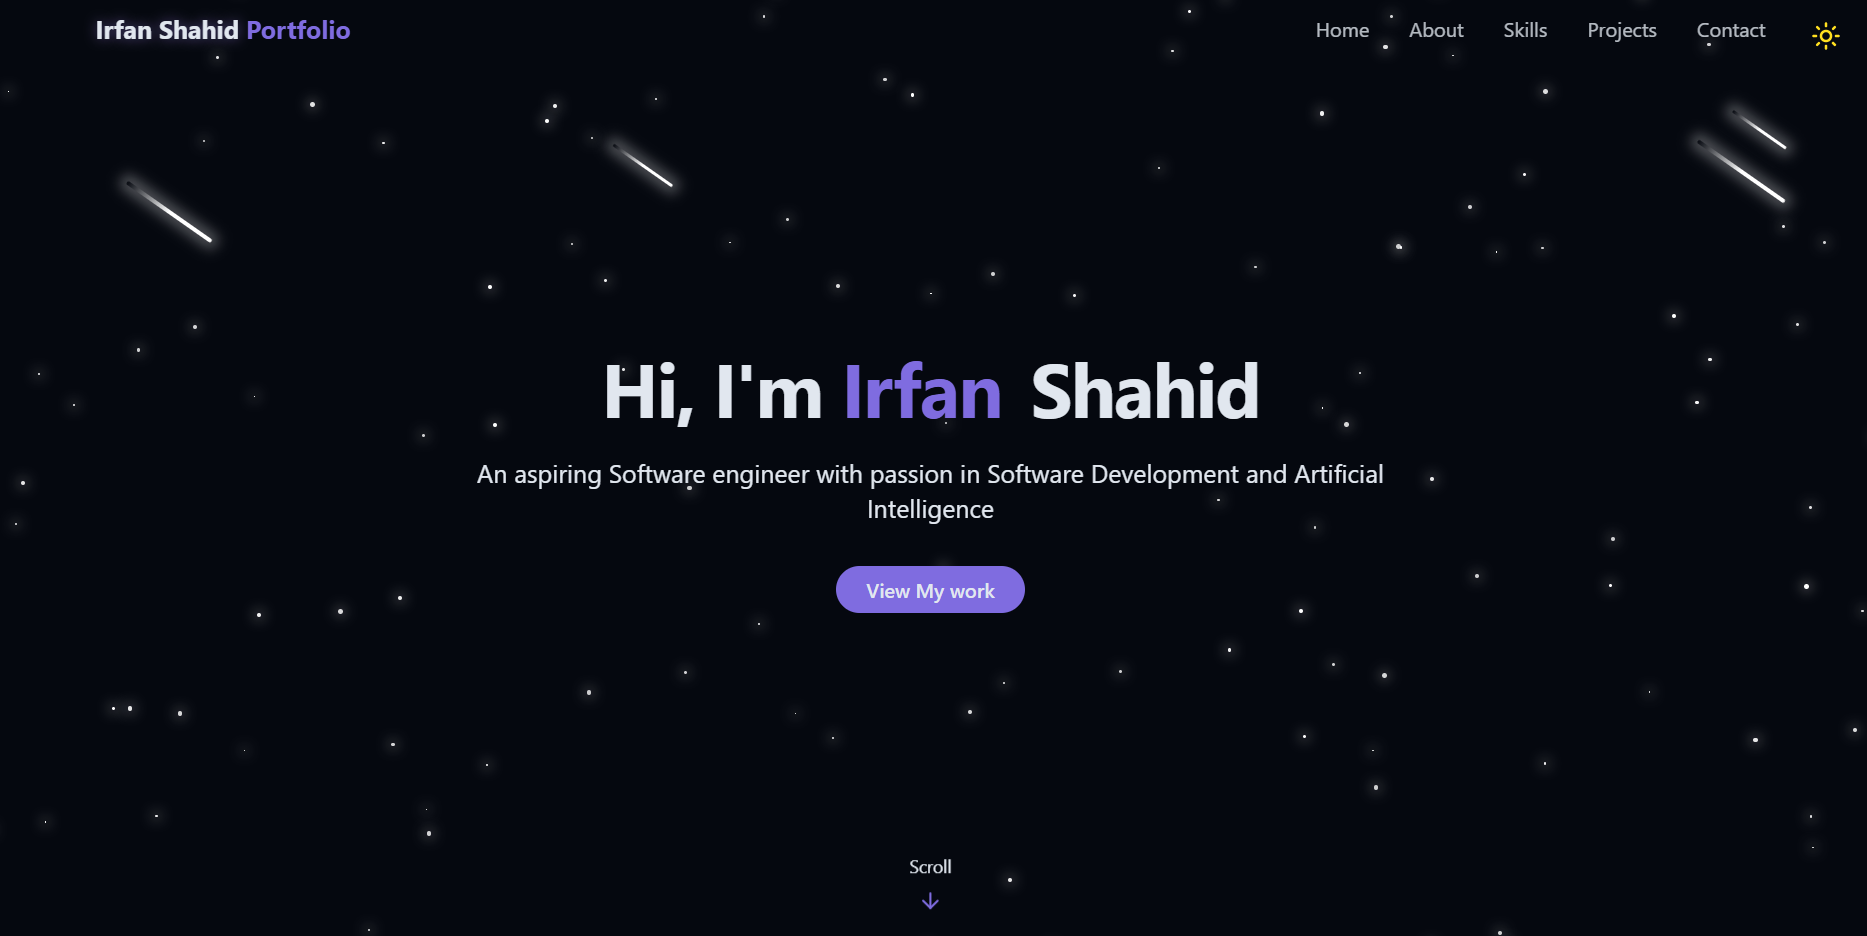
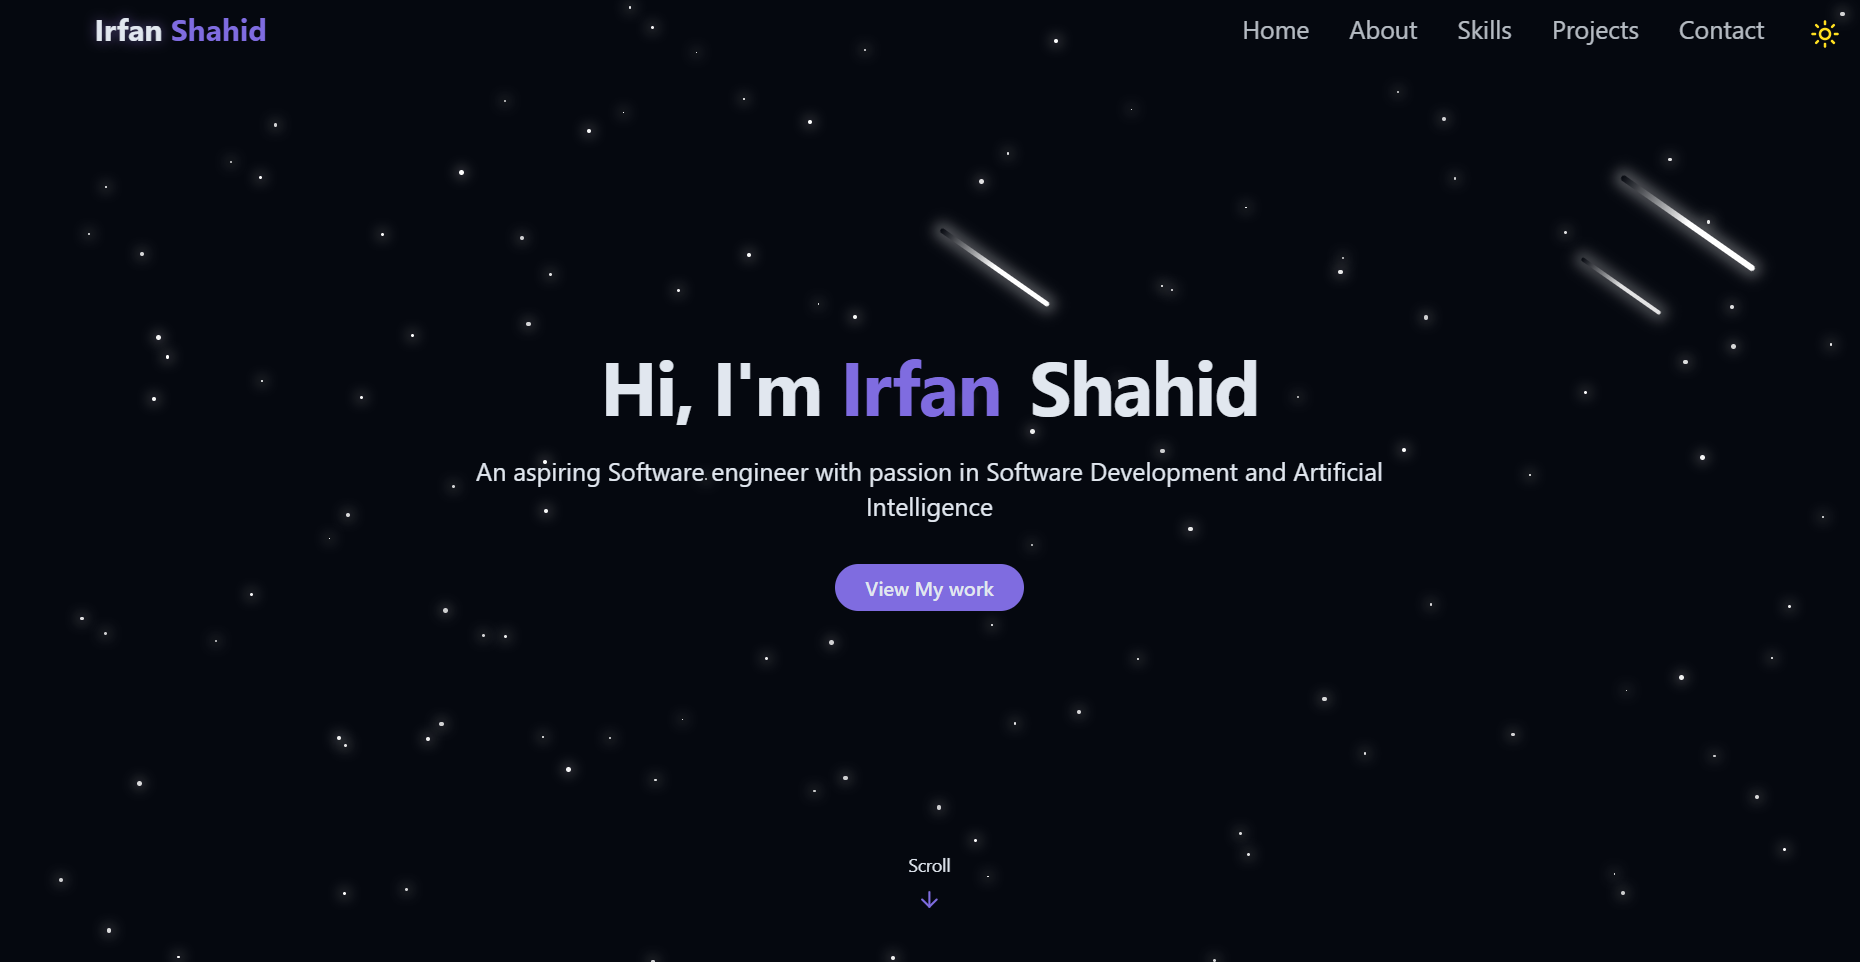
clean up

diff --git a/src/components/ProjectsSection.jsx b/src/components/ProjectsSection.jsx
@@ -8,18 +8,17 @@ const projects = [
         description: "Full-stack web application that analyzes uploaded food images to estimate calorie and macronutrient values inreal time",
         image: "/projects/nutrilens.png",
         tags: ["React", "TailwindCSS", "Flask", "TensorFlow"],
-        demoUrl: "#",
-        githubUrl: "#",
+        
+        githubUrl: "https://github.com/Irfxn21/NutriLens",
     },
 
     {
         id: 2,
-        title: "Minesweeper",
+        title: "Star Wars Minesweeper",
         description: "Star Wars inspired version of Minesweeper on linux, playable on both command line and graphical interface",
         image: "/projects/minesweeper.png",
         tags: ["C", "GTK", "Linux"],
-        demoUrl: "#",
-        githubUrl: "#",
+        githubUrl: "https://github.com/Irfxn21/Minesweeper",
     },
 
     {
@@ -28,8 +27,7 @@ const projects = [
         description: "Machine learning model used to predict Premier League soccer matches",
         image: "/projects/soccer.png",
         tags: ["Python", "Pandas","BS4", "Scikit-Learn"],
-        demoUrl: "#",
-        githubUrl: "#",
+        githubUrl: "https://github.com/Irfxn21/Premier-League-Match-Predictor",
     },
 
     {
@@ -37,9 +35,8 @@ const projects = [
         title: "Amazon Website Clone",
         description: "Recreation of a sample Amazon Website with user interactivity, including features like cart management and checkout",
         image: "/projects/amazon.png",
-        tags: ["Python", "Pandas","BS4", "Scikit-Learn"],
-        demoUrl: "#",
-        githubUrl: "#",
+        tags: ["HTML", "CSS","JavaScript"],
+        githubUrl: "https://github.com/Irfxn21/Amazon-Website",
     },
 
     {
@@ -47,9 +44,8 @@ const projects = [
         title: "Maze Runner",
         description: "Maze solving algorithm that computes an escape path for any given maze",
         image: "/projects/maze.png",
-        tags: ["Java", "Maven"],
-        demoUrl: "#",
-        githubUrl: "#",
+        tags: ["Java", "Maven", "Apache CLI"],
+        githubUrl: "https://github.com/Irfxn21/A1-MazeRunner",
     },
 
     {
@@ -58,8 +54,7 @@ const projects = [
         description: "Machine learning model used to predict Premier League soccer matches",
         image: "/projects/portfolio.png",
         tags: ["React", "Tailwind CSS","Vite"],
-        demoUrl: "#",
-        githubUrl: "#",
+        githubUrl: "https://github.com/Irfxn21/Portfolio",
     },
 ];
 

diff --git a/src/components/Navbar.jsx b/src/components/Navbar.jsx
@@ -30,15 +30,15 @@ export const Navbar =  () => {
                                     isScrolled ? "py-3 bg-background/80 backdrop-blur-md shadow-xs" : "py-5"
     )}>
         <div className="container flex items-center justify-between">
-            <a href="#hero" className="text-xl font-bold text-primary flex items-center">
-                <span className="relative z-10">
-                    <span className="text-glow text-foreground">Irfan Shahid</span> Portfolio
+            <a href="#hero" className="text-xl font-bold text-primary flex items-center card-hover">
+                <span className="relative z-10 text-2xl">
+                    <span className="text-glow text-foreground">Irfan</span> Shahid
                 </span>
             </a>
 
             {/* desktop navbar*/}
 
-            <div className="hidden md:flex space-x-8">
+            <div className="hidden md:flex space-x-8 text-xl">
                 {navItems.map((item, key) => (
                     <a 
                         key={key} 

diff --git a/src/components/ContactSection.jsx b/src/components/ContactSection.jsx
@@ -14,7 +14,7 @@ export const ContactSection = () => {
         }, 1500)
     }
 
-    return <section id="contact" className="py-40 px-4 relative bg-secondary/30">
+    return <section id="contact" className="py-35 px-4 relative bg-secondary/30">
 
         <div className="container mx-auto max-w-5xl">
             <h2 className="text-3xl md:text-5xl font-bold mb-5 text-center">
